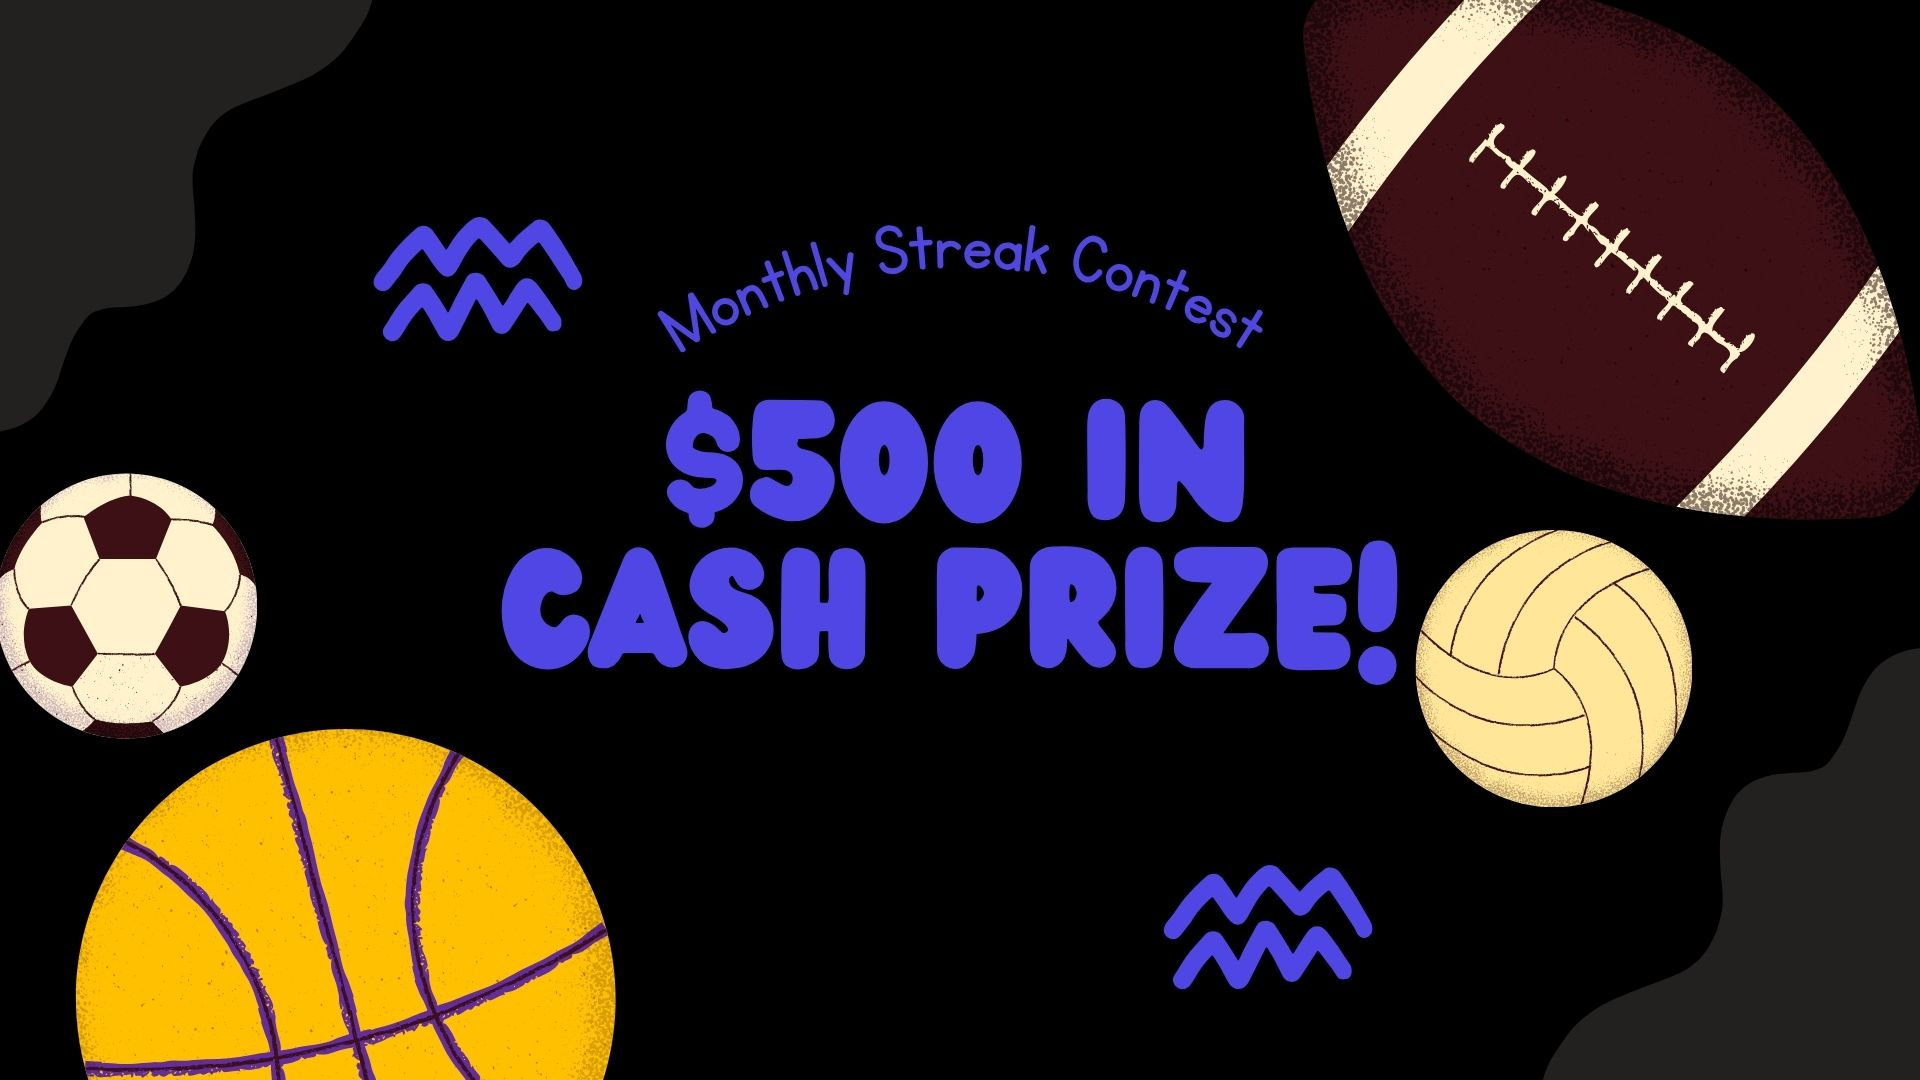
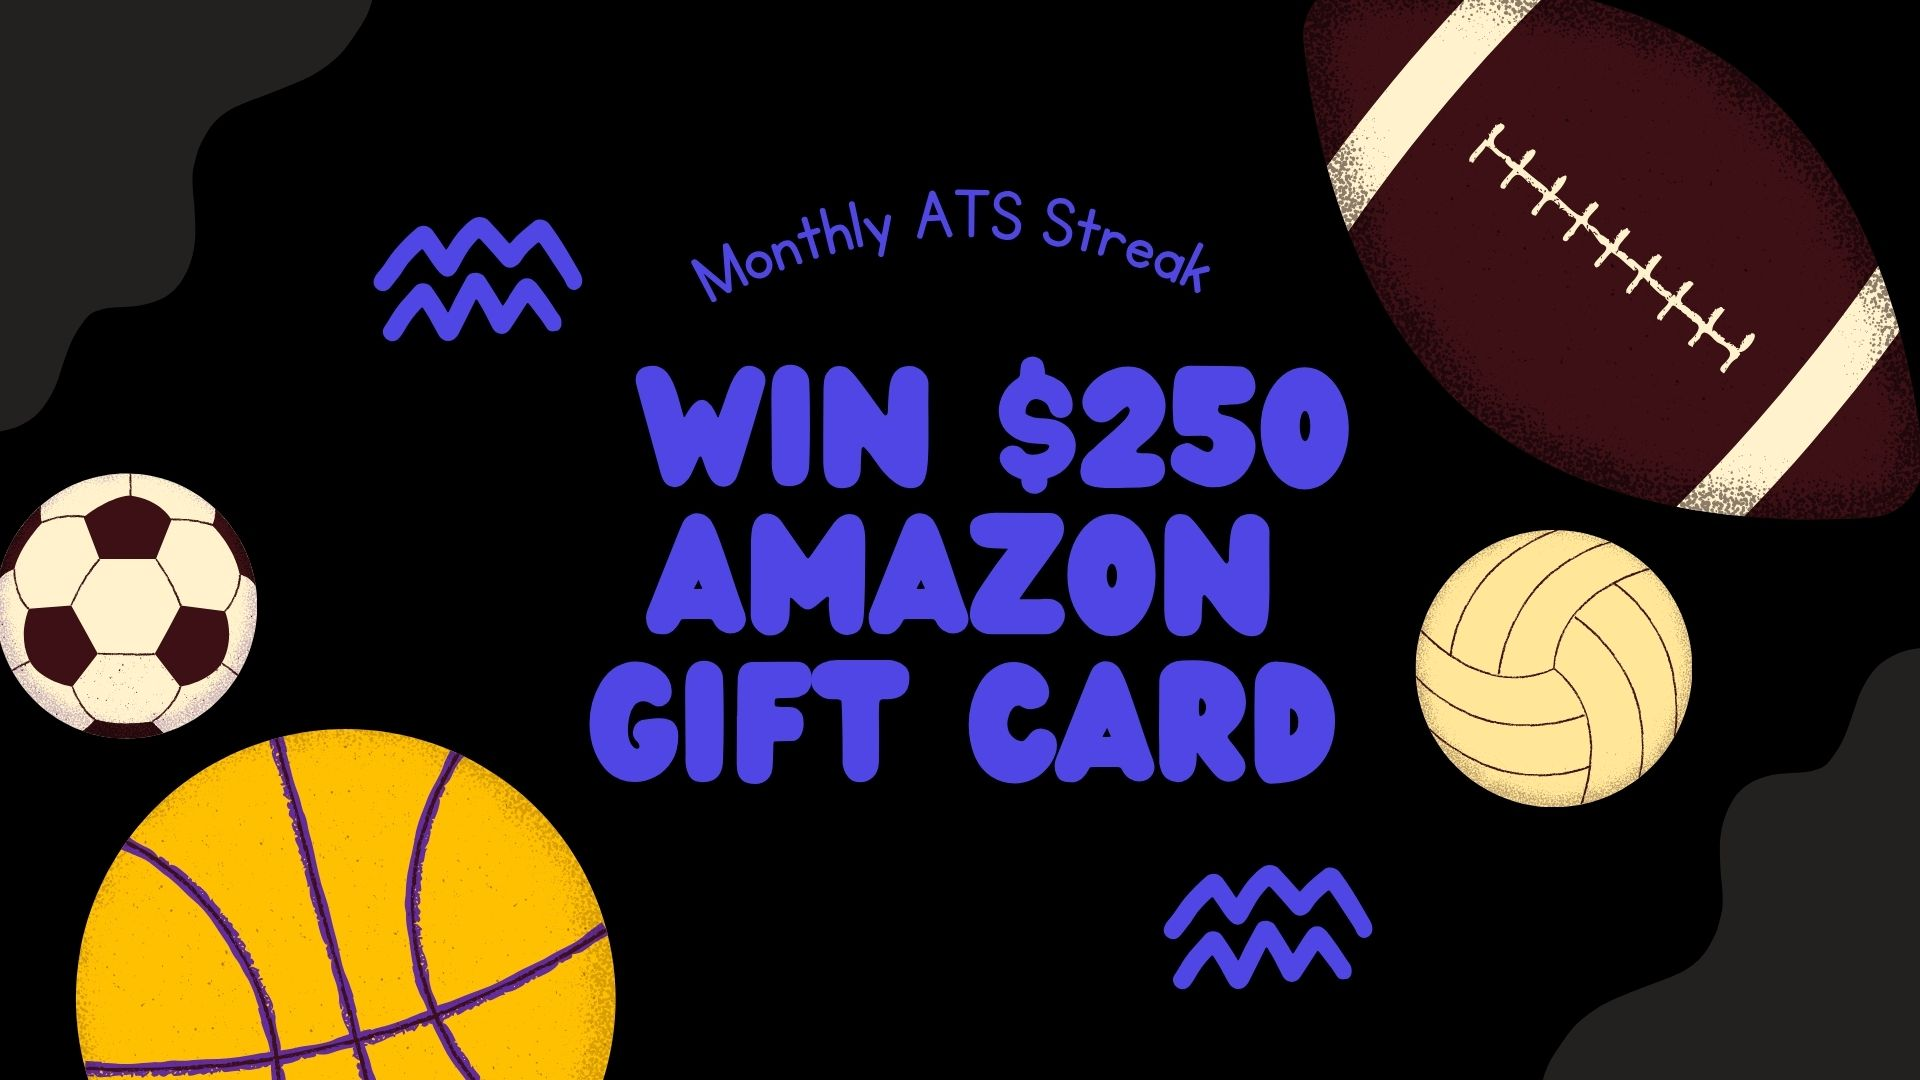
more updates to streak global free to play contest

Changed region(s): [[0.25, 0.1528, 0.75, 0.7333]]

diff --git a/src/hooks/useContestData.js b/src/hooks/useContestData.js
@@ -18,9 +18,9 @@ export const useContestData = () => {
 
     return [
       {
-        contestName: `Weekly Streak`,
+        contestName: `Weekly ATS Streak`,
         primaryImageUrl: weeklyStreakImage,
-        contestTotalPrize: 100,
+        contestTotalPrize: "$100 Amazon Gift Card",
         spreadsheetUrl:
           "https://sure-odds-be-482948f2bda5.herokuapp.com/api/v1/pickem2/",
         isContestActive: true,
@@ -44,17 +44,19 @@ export const useContestData = () => {
             timeZone: "America/New_York",
           }),
         contestLeague: [
-          "basketball_nba",
+          // "basketball_nba",
           // "basketball_ncaab",
           "basketball_wnba",
-          "soccer_epl",
-          "soccer_germany_bundesliga",
-          "soccer_italy_serie_a",
-          "soccer_spain_la_liga",
-          "soccer_usa_mls",
-          "icehockey_nhl",
+          "baseball_mlb",
+          // "soccer_epl",
+          // "soccer_germany_bundesliga",
+          // "soccer_italy_serie_a",
+          // "soccer_spain_la_liga",
+          // "soccer_usa_mls",
+          // "icehockey_nhl",
         ],
         contestType: "Streak",
+        availableMarkets: ["Spread"],
         availableFreePicks: 5,
         affiliates: [
           {
@@ -79,9 +81,9 @@ export const useContestData = () => {
         ],
       },
       {
-        contestName: `Monthly Streak`,
+        contestName: `Monthly ATS Streak`,
         primaryImageUrl: monthlyStreakImage,
-        contestTotalPrize: 500,
+        contestTotalPrize: "$250 Amazon Gift Card",
         spreadsheetUrl:
           "https://sure-odds-be-482948f2bda5.herokuapp.com/api/v1/pickem1/",
         isContestActive: true,
@@ -106,17 +108,19 @@ export const useContestData = () => {
             timeZone: "America/New_York",
           }),
         contestLeague: [
-          "basketball_nba",
+          // "basketball_nba",
           "basketball_wnba",
+          "baseball_mlb",
           // "basketball_ncaab",
-          "soccer_epl",
-          "soccer_germany_bundesliga",
-          "soccer_italy_serie_a",
-          "soccer_spain_la_liga",
-          "soccer_usa_mls",
-          "icehockey_nhl",
+          // "soccer_epl",
+          // "soccer_germany_bundesliga",
+          // "soccer_italy_serie_a",
+          // "soccer_spain_la_liga",
+          // "soccer_usa_mls",
+          // "icehockey_nhl",
         ],
         contestType: "Streak",
+        availableMarkets: ["Spread"],
         availableFreePicks: 15,
         affiliates: [
           {

diff --git a/src/components/ContestCard.jsx b/src/components/ContestCard.jsx
@@ -25,6 +25,7 @@ const ContestCard = ({
   startDate,
   endDate,
   contestType,
+  availableMarkets,
 }) => {
   const navigate = useNavigate();
   const [leagueColors, setLeagueColors] = useState({});
@@ -46,15 +47,14 @@ const ContestCard = ({
     <div className="card" onClick={handleClick}>
       <img src={primaryImageUrl} alt={contestName} className="card-image" />
       <div className="card-content">
-        <h2 className="card-title">{contestName} Contest</h2>
-        <p className="card-price">
-          🥇Total Pize Money: ${contestTotalPrize} USD
-        </p>
+        <h2 className="card-title">{contestName}</h2>
+        <p className="card-price">🥇Pize: {contestTotalPrize}</p>
         <p className="card-dates">
           📅: {new Date(startDate).toLocaleDateString()} -{" "}
           {new Date(endDate).toLocaleDateString()}
         </p>
         <p className="card-dates">Contest Type: {contestType}</p>
+        <p className="card-dates">Available Market: {availableMarkets}</p>
         <div className="card-leagues">
           {contestLeague.map((league) => (
             <span

diff --git a/src/components/Contest.jsx b/src/components/Contest.jsx
@@ -267,9 +267,7 @@ const Contest = () => {
                   mb: 2,
                 }}
               >
-                Buy in. Make picks. Climb the leaderboard. Win up to{" "}
-                <strong>${contestDetails.contestTotalPrize}</strong> in real
-                cash prizes.
+                Buy in. Make picks. Climb the leaderboard. Win amazing prizes.
               </Typography>
 
               <Box
@@ -283,7 +281,7 @@ const Contest = () => {
                   textAlign: "center",
                 }}
               >
-                💰 Prize Pool: ${contestDetails.contestTotalPrize}
+                💰 Prize Pool: {contestDetails.contestTotalPrize}
               </Box>
             </Box>
 

diff --git a/src/utils/leagueData.js b/src/utils/leagueData.js
@@ -28,6 +28,7 @@ export const leagueApiMap = {
 export const leagueOptions = [
   { value: "basketball_nba", label: "NBA 🏀" },
   { value: "basketball_wnba", label: "WNBA 🏀" },
+  { value: "baseball_mlb", label: "MLB ⚾" },
   { value: "americanfootball_nfl", label: "NFL 🏈" },
   { value: "americanfootball_ncaaf", label: "NCAA Football 🏈" },
   { value: "basketball_ncaab", label: "NCAA Men Basketball 🏀" },

diff --git a/src/components/ContestInfo.jsx b/src/components/ContestInfo.jsx
@@ -128,7 +128,7 @@ const ContestInfo = ({
         {
           condition: `Achieve a perfect streak of ${availableFreePicks} for ${availableFreePicks}`,
           message: `You must win all ${availableFreePicks} picks to qualify for the prize.`,
-          amount: `$${totalPrize.toFixed(2)}`,
+          amount: `${totalPrize}`,
         },
         {
           condition: `If no one achieves a perfect streak`,

diff --git a/src/components/Home.jsx b/src/components/Home.jsx
@@ -146,6 +146,7 @@ const Home = () => {
                     endDate={item.currentContestEndDate}
                     contestLeague={item.contestLeague}
                     contestType={item.contestType}
+                    availableMarkets={item.availableMarkets}
                   />
                 )
             )
